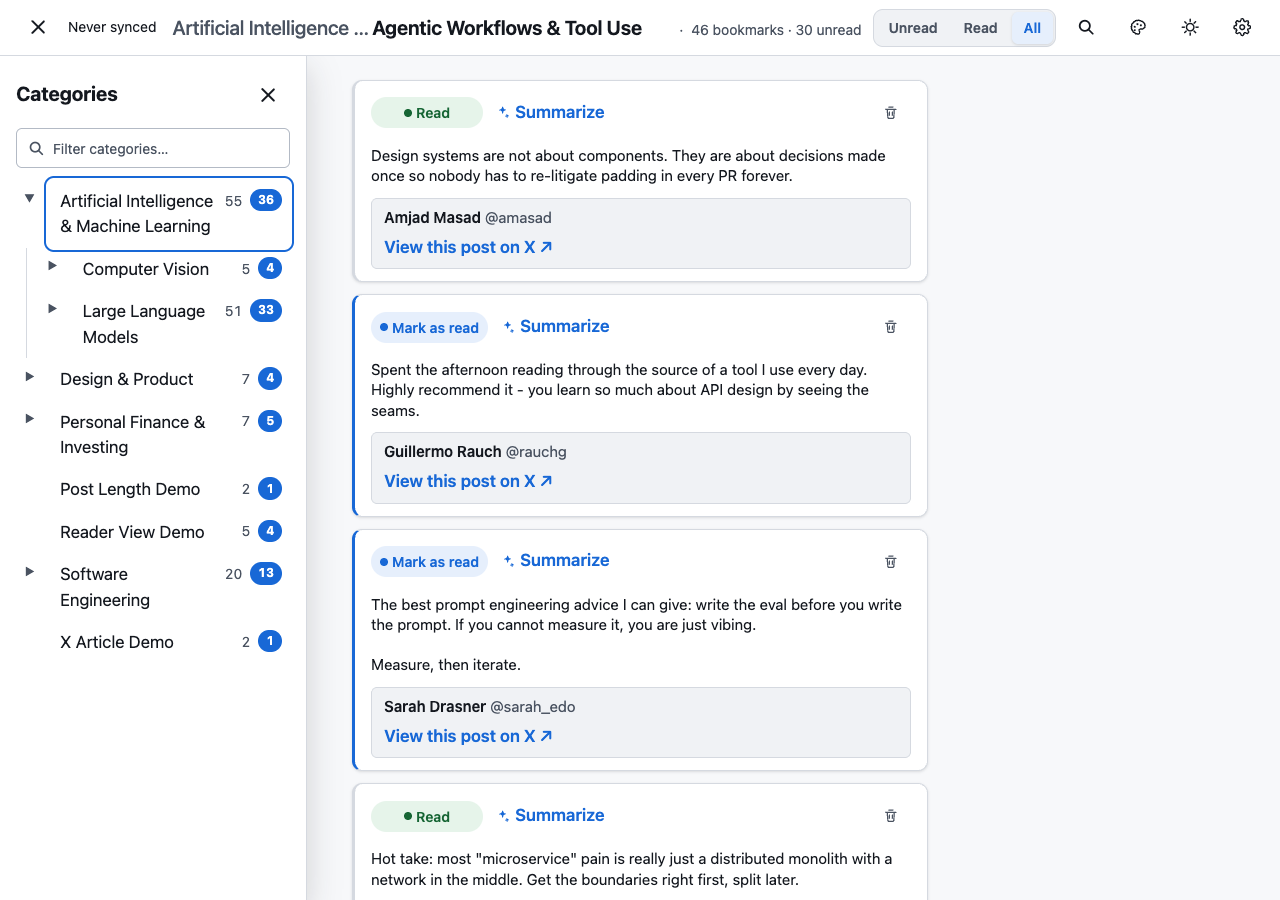
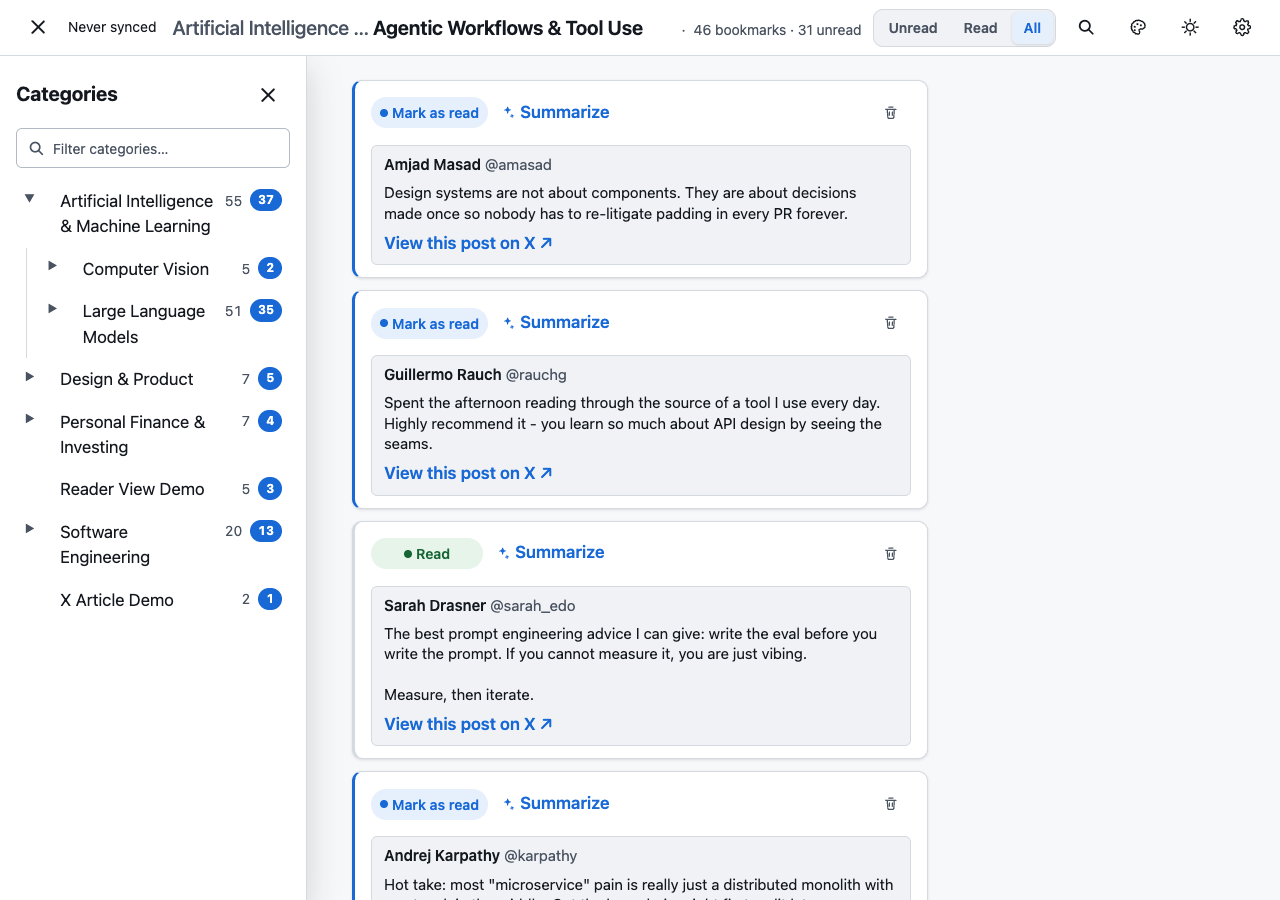
Remove the inline expandable post text (revert issue #36 / PR #57)
The card rendered RawBookmark.text itself directly above the X embed, which
already shows the same words - a visible duplicate of every post. The embed
also cannot be expanded in place (X owns it), so the in-app block bought
nothing the embed did not already provide.

Reverts 69a6174 in full: renderPostText and its clamp/"Show more" toggle,
post-text.js + its test, the .bookmark-post-text CSS, the script tag, the
seed's Post Length Demo category, and the AGENTS.md section. The embed
fallback gets its own paragraph of bm.text back, since that block is no
longer there to carry it - a card is once again just the action row plus the
embed (or its fallback).

Done on this branch as well as on main's revert PR #58, so the feature stays
gone whichever of the two lands first. The top-bar, settings and sidebar work
on this branch is untouched; its screenshots are re-captured against the
de-duplicated card.

diff --git a/src/web/public/app.js b/src/web/public/app.js
@@ -1064,21 +1064,11 @@
 
     actions.append(left, right);
 
-    card.appendChild(actions);
-
-    // Our own expandable full post text (issue #36): the primary, in-app way
-    // to read the words, since X's embed truncates long posts behind its own
-    // "Show more" that leaves the app. RawBookmark.text is already the full,
-    // untruncated text.
-    const postTextEl = renderPostText(bm);
-    if (postTextEl) card.appendChild(postTextEl);
-
-    // Embed slot with link fallback, kept for media/quotes/rich content (and
-    // as the sole text source when the post can't embed). Opening the
-    // fallback link also marks read.
+    // Embed slot with link fallback. Opening the fallback link also marks read.
     const slot = el("div", "embed-slot");
     renderEmbed(slot, bm, () => setRead(bm, card, true));
-    card.appendChild(slot);
+
+    card.append(actions, slot);
 
     // X-native Article card (x.com/i/article/...): X's embed shows these as a
     // bare link, so render the Article's cover/title/preview from the X API
@@ -1088,44 +1078,6 @@
     if (xArticleCard) card.appendChild(xArticleCard);
 
     return card;
-  }
-
-  /**
-   * The card's own expandable full post text (issue #36). Short text renders
-   * fully with no toggle; text long enough to need clamping renders with a
-   * "Show more"/"Show less" button that expands/collapses it in place - no
-   * redirect, since the full text (`RawBookmark.text`) is already on hand.
-   * Text is set via `el()`'s `textContent`, never `innerHTML`, so untrusted
-   * post content can never inject markup. Returns null for a bookmark with
-   * no text (e.g. a pure X Article host).
-   */
-  function renderPostText(bm) {
-    const text = bm.text || "";
-    if (!text.trim()) return null;
-
-    const wrap = el("div", "bookmark-post-text");
-    const bodyId = `post-text-${bm.id}`;
-    const body = el("p", "bookmark-post-text-body", text);
-    body.id = bodyId;
-    wrap.appendChild(body);
-
-    if (window.XBOPostText.isLongPostText(text)) {
-      wrap.classList.add("is-clamped");
-      const toggle = el("button", "post-text-toggle", "Show more");
-      toggle.type = "button";
-      toggle.setAttribute("aria-expanded", "false");
-      toggle.setAttribute("aria-controls", bodyId);
-      toggle.addEventListener("click", () => {
-        const expanded = !wrap.classList.contains("is-expanded");
-        wrap.classList.toggle("is-expanded", expanded);
-        wrap.classList.toggle("is-clamped", !expanded);
-        toggle.textContent = expanded ? "Show less" : "Show more";
-        toggle.setAttribute("aria-expanded", String(expanded));
-      });
-      wrap.appendChild(toggle);
-    }
-
-    return wrap;
   }
 
   /** Cover aspect ratio, clamped so an odd cover never dominates the card. */
@@ -1286,13 +1238,12 @@
       const fallback = el("div", "embed-fallback");
       // The card itself carries no author line (the embed normally shows
       // it); a fallback has no embed, so it needs its own byline to avoid
-      // leaving the post with zero context about who posted it. The post
-      // text itself is not repeated here - the card's own expandable text
-      // block (renderPostText, issue #36) already renders it above.
+      // leaving the post with zero context about who posted it.
       const author = el("p", "embed-fallback-author");
       author.append(document.createTextNode(bm.authorName || bm.authorUsername));
       author.appendChild(el("span", "bookmark-handle", ` @${bm.authorUsername}`));
       fallback.appendChild(author);
+      if (bm.text) fallback.appendChild(el("p", null, bm.text));
       const link = el("a", "link-external", "View this post on X ↗");
       link.href = bm.url;
       link.target = "_blank";

diff --git a/scripts/seed-dev-db.js b/scripts/seed-dev-db.js
@@ -263,39 +263,6 @@ db.storeCategorizedBatch(
   () => [readerDemoParent],
 );
 
-// Two bookmarks that exercise the card's own expandable full post text
-// (issue #36): one whose text is long enough to need the inline "Show
-// more"/"Show less" clamp, one short enough to render fully with no toggle.
-const postLengthParent = ensurePath(['Post Length Demo']);
-const longPostText = [
-  'A long-form post to exercise the inline expand/collapse toggle end to end.',
-  'The whole point of issue #36 is that reading the full words should never leave the app: X\'s own embed truncates a post like this one behind its own "Show more" link, which opens the post on x.com in a new tab just to read the rest.',
-  'This bookmark stores the full, untruncated text (RawBookmark.text) exactly the way ingestion received it from the X API - our own card renders that text directly, clamps it visually when it runs long, and lets the owner expand it in place with a click.',
-  'Collapsing it back should restore the same clamp, with no layout jump anywhere else on the card: the action row above and the embed below should hold still while only this block\'s height changes.',
-  'If you can read this whole paragraph without ever leaving the viewer, the feature works.',
-].join('\n\n');
-db.storeCategorizedBatch(
-  [
-    {
-      postId: '900000000000096001',
-      authorUsername: 'b0rk',
-      authorName: 'Julia Evans',
-      text: longPostText,
-      url: 'https://x.com/b0rk/status/900000000000096001',
-      postCreatedAt: new Date().toISOString(),
-    },
-    {
-      postId: '900000000000096002',
-      authorUsername: 'Rich_Harris',
-      authorName: 'Rich Harris',
-      text: 'A short post. No toggle needed - the whole thing fits already.',
-      url: 'https://x.com/Rich_Harris/status/900000000000096002',
-      postCreatedAt: new Date().toISOString(),
-    },
-  ],
-  () => [postLengthParent],
-);
-
 // Populate the URL-keyed metadata cache directly (bypassing any real fetch),
 // mirroring what a real ingest run's buildArticleContext would have cached,
 // so the gated "Read article" control renders deterministically and fully

diff --git a/src/web/public/styles.css b/src/web/public/styles.css
@@ -1120,43 +1120,6 @@ body[data-tree-colors="on"] .tree-node[data-parity="1"] {
   background: currentColor;
 }
 
-/* The card's own expandable full post text (issue #36) - the primary,
-   in-app way to read a post's words, kept separate from the embed below
-   (which stays for media/quotes/rich content). */
-.bookmark-post-text {
-  margin-bottom: var(--space-3);
-}
-.bookmark-post-text-body {
-  margin: 0;
-  font-size: var(--text-post);
-  line-height: var(--leading-post);
-  color: var(--color-text);
-  white-space: pre-wrap;
-  overflow-wrap: anywhere;
-}
-.bookmark-post-text.is-clamped .bookmark-post-text-body {
-  display: -webkit-box;
-  -webkit-line-clamp: 6;
-  -webkit-box-orient: vertical;
-  overflow: hidden;
-}
-.post-text-toggle {
-  display: inline-block;
-  margin-top: var(--space-1);
-  padding: var(--space-1) 0;
-  border: none;
-  background: none;
-  font: inherit;
-  font-size: var(--text-small);
-  font-weight: 600;
-  color: var(--color-accent);
-  cursor: pointer;
-}
-.post-text-toggle:hover {
-  color: var(--color-accent-hover);
-  text-decoration: underline;
-}
-
 .embed-slot {
   min-width: 0;
   min-height: 2rem;

diff --git a/src/web/public/index.html b/src/web/public/index.html
@@ -313,7 +313,6 @@
     <script src="tree-color.js" defer></script>
     <script src="tree-counts.js" defer></script>
     <script src="read-toggle.js" defer></script>
-    <script src="post-text.js" defer></script>
     <script src="filter-cache.js" defer></script>
     <script src="app.js" defer></script>
   </body>

diff --git a/AGENTS.md b/AGENTS.md
@@ -193,19 +193,6 @@ resolves `undefined` (deleted/protected), rejects, or a backstop timeout fires -
 spinner and never a raw-text flash. This runs per card, so lazy-loaded batches get it too. The seed
 uses a couple of real public post ids so a live embed appears alongside the fallbacks.
 
-The card's own full post text (issue #36) renders `RawBookmark.text` directly - via `el()`'s
-`textContent`, never `innerHTML`, so untrusted post content can't inject markup - as the primary,
-in-app way to read a long post, since X's embed truncates behind its own "Show more" that leaves
-the app. `renderPostText` in `app.js` sits between the action row and the embed slot; the embed
-stays for media/quotes/rich content, and (to avoid showing the same text twice) the fallback's own
-paragraph of `bm.text` was removed since this block already covers it. Whether a post needs the
-clamp + "Show more"/"Show less" toggle is a pure, DOM-free heuristic - `isLongPostText` in
-`post-text.js` (character/line-count thresholds), shared with `app.js` and `post-text.test.ts` the
-same way `read-toggle.js` is - rather than a runtime overflow measurement, so it stays deterministic
-and testable without a real layout. The expand/collapse state lives entirely as a class on the
-card's own DOM node, so it survives the client-side filter+category view cache (`viewCaches`)
-untouched, since that cache reuses the same DOM elements rather than re-rendering.
-
 To iterate on the viewer without the owner's private DB, seed a throwaway one and serve it:
 `npm run build && npm run seed:dev && XBOOKMARKS_DB_PATH=data/dev-seed.db node dist/index.js serve`
 (`scripts/seed-dev-db.js` builds a deep sample taxonomy; `data/*.db` is gitignored - never commit
